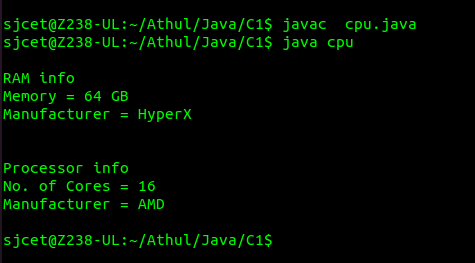
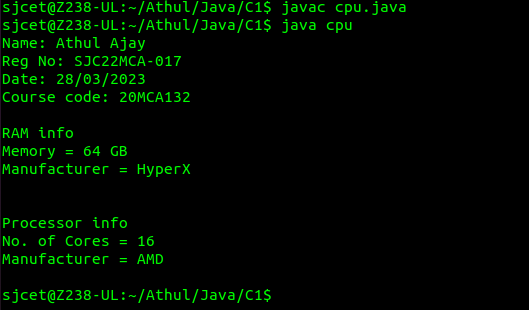
Add files via upload

diff --git a/Java/C1/cpu.java b/Java/C1/cpu.java
@@ -1,0 +1,40 @@
+public class cpu{
+    int price;
+     class processor{
+        int cores;
+        String producer;
+        processor(int noC, String manu){
+            cores=noC;
+            producer=manu;
+        }
+        void display(){
+        System.out.println("\nProcessor info");
+        System.out.println("No. of Cores = "+cores);
+        System.out.println("Manufacturer = "+producer+"\n");
+    }
+    }
+    static class ram{
+        int mem;
+        String manuf;
+        ram(int memory,String producer ){
+            mem=memory;
+            manuf=producer;
+        }
+        void display(){
+        System.out.println("Name: Athul Ajay");
+	System.out.println("Reg No: SJC22MCA-017");
+	System.out.println("Date: 28/03/2023");
+	System.out.println("Course code: 20MCA132");
+        System.out.println("\nRAM info");
+        System.out.println("Memory = "+mem+" GB");
+        System.out.println("Manufacturer = "+manuf+"\n");
+    }}
+    public static void main(String[] args) {
+         cpu.ram obj1= new cpu.ram(64,"HyperX");
+         cpu obj2 = new cpu();
+         cpu.processor obj3 = obj2.new processor(16,"AMD");
+         obj1.display();
+         obj3.display();
+
+    }
+}
